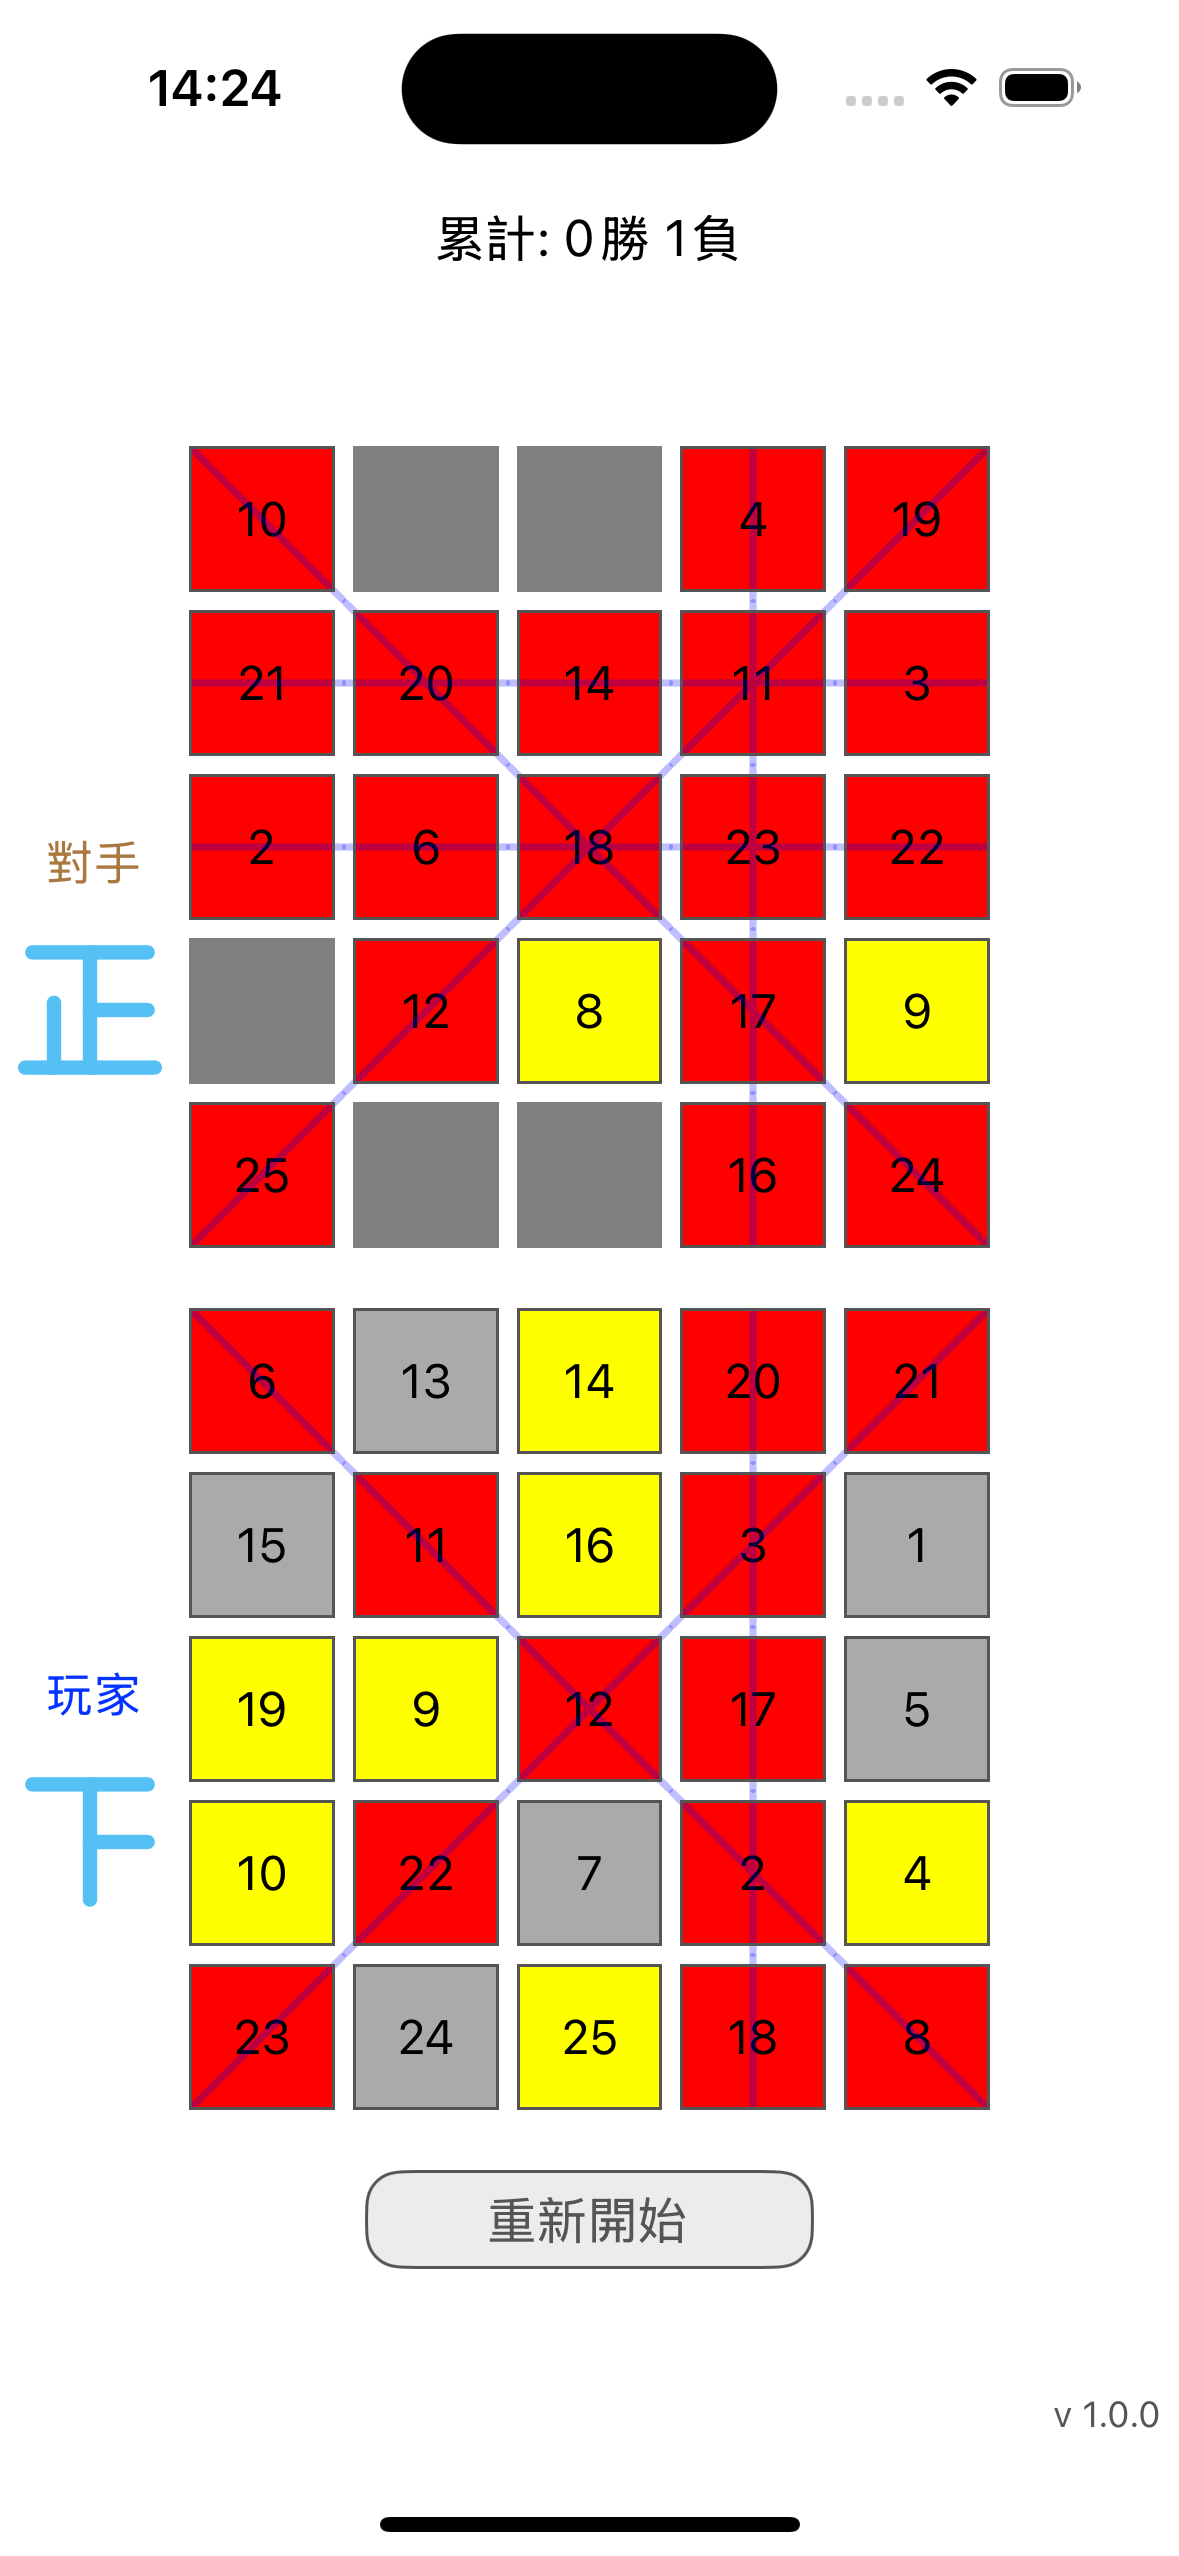
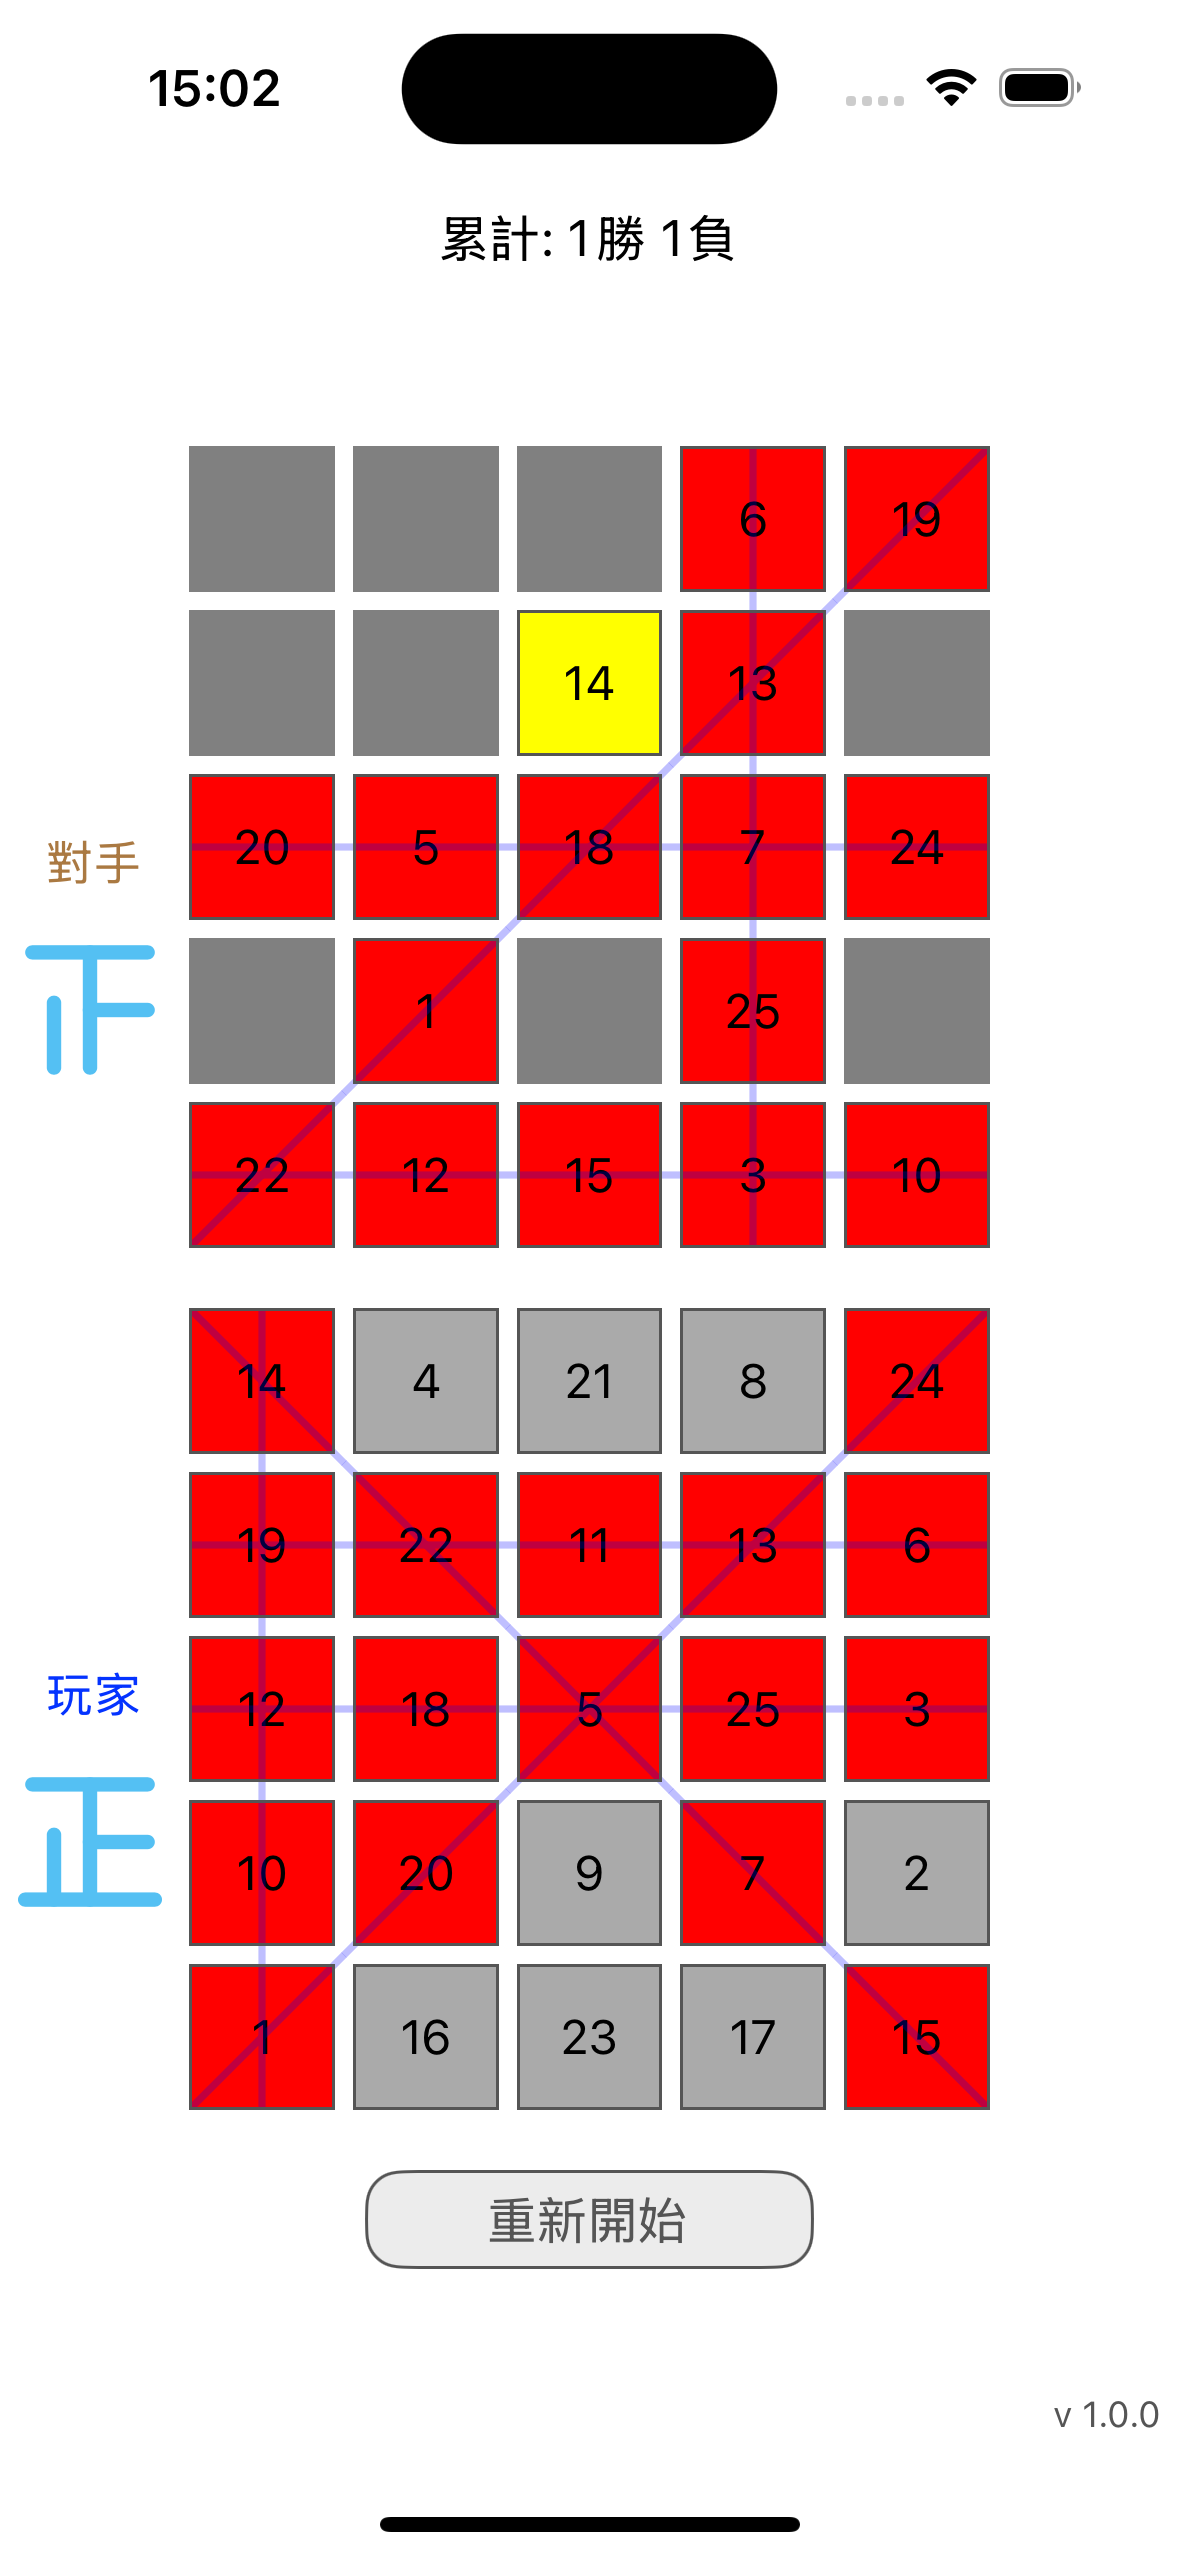
update UIGridView's direction line

diff --git a/Bingo/Classes/ViewController/View/UIGridView.swift b/Bingo/Classes/ViewController/View/UIGridView.swift
@@ -141,7 +141,7 @@ extension UIGridView
         self.directionLayer.strokeColor = UIColor(hexString: "#400000FF").cgColor
         self.directionLayer.lineWidth = 2.4
         self.directionLayer.fillColor = nil
-        self.directionLayer.lineCap = .round
+        self.directionLayer.lineCap = .square
         self.layer.addSublayer(self.directionLayer)
     }
     
@@ -177,7 +177,8 @@ extension UIGridView
         let path = UIBezierPath()
         let w = self.bounds.width
         let h = self.bounds.height
-        let offset: CGFloat = 2.5//w / 15
+        let offset: CGFloat = 1.8
+        let angle_offset: CGFloat = 2.2
         
         for (index, connected) in directions.enumerated()
         {
@@ -190,12 +191,12 @@ extension UIGridView
             switch dir
             {
                 case .leftTop_rightBottom:
-                    path.move(to: CGPoint(x: -offset, y: -offset))
-                    path.addLine(to: CGPoint(x: w + offset, y: h + offset))
+                    path.move(to: CGPoint(x: -angle_offset, y: -angle_offset))
+                    path.addLine(to: CGPoint(x: w + angle_offset, y: h + angle_offset))
                     
                 case .rightTop_leftBottom:
-                    path.move(to: CGPoint(x: w + offset, y: -offset))
-                    path.addLine(to: CGPoint(x: -offset, y: h + offset))
+                    path.move(to: CGPoint(x: w + angle_offset, y: -angle_offset))
+                    path.addLine(to: CGPoint(x: -angle_offset, y: h + angle_offset))
                     
                 case .horizontal:
                     path.move(to: CGPoint(x: -offset, y: h / 2))
